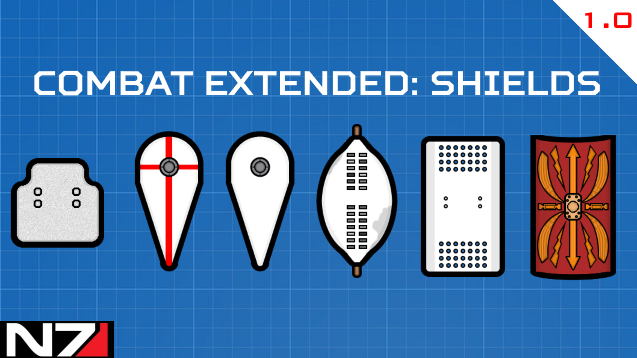
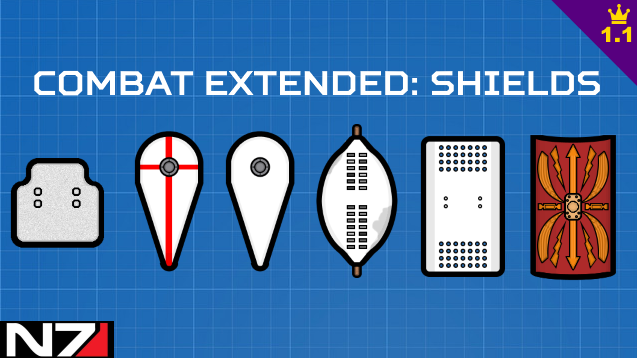
Add Tactical Shield, balance shield HP

Changed region(s): [[0.865, 0.0, 1.0, 0.2458]]

diff --git a/README.md b/README.md
@@ -1,6 +1,6 @@
 # CombatExtendedShields
 
-Updated 12/9/2018 for [1.0]  
+Updated 3/23/2020 for [1.0] or [1.1]  
 
 Additional types of shields from a variety of eras. Designed by different cultures for different roles, they allow further specialization of colonists equipped with shields depending upon their role in combat and duty around the colony.
 
@@ -26,7 +26,6 @@ Kite Shield:
 Recipe: 70 x Wood  
 Description: A cavalryman's shield, the kite shield originated in Western Europe, becoming widespread around the 10th Century AD. While one of the few designs of the time that offered good protection the users legs, its length made it awkward for infantry to use. Nevertheless, it was extremely popular, seeing extensive use throughout Europe, and evenutally being introduced to the Holy Land by Norman Crusaders.
 
-
 Riot Shield:  
 Recipe: 60 x Steel  
 Description: Designed for law enforcement and corrections officers, this shield's lightweight metal construction and large size make it ideal for use against crowds and unarmed opponents. However, it offers only limited protection against projectiles and isn't thick enough to stop even the lowest caliber gunfire.
@@ -34,3 +33,7 @@ Description: Designed for law enforcement and corrections officers, this shield'
 Assault Shield:  
 Recipe: 60 x Steel, 4 x Components  
 Description: An advanced composite shield with a suite of integrated sensors, the assault shield was designed for military units likely to find themselves engaged in extremely close-quarters combat. Far smaller than a full-sized ballistic shield, it trades coverage for mobility. Though capable of stopping handgun and rifle rounds, its small size leaves the user very little to hide behind should they find themselves under sustained fire.
+
+Tactical Shield:
+Recipe: 30 x Chemfuel, 70 x Leather/Textile
+Description: A "soft" medium-sized ballistic shield, made from reinforced textile materials rather than metal. Though offering less ballistic protection than the assault shield, it offers wider coverage at a fraction of the weight.
